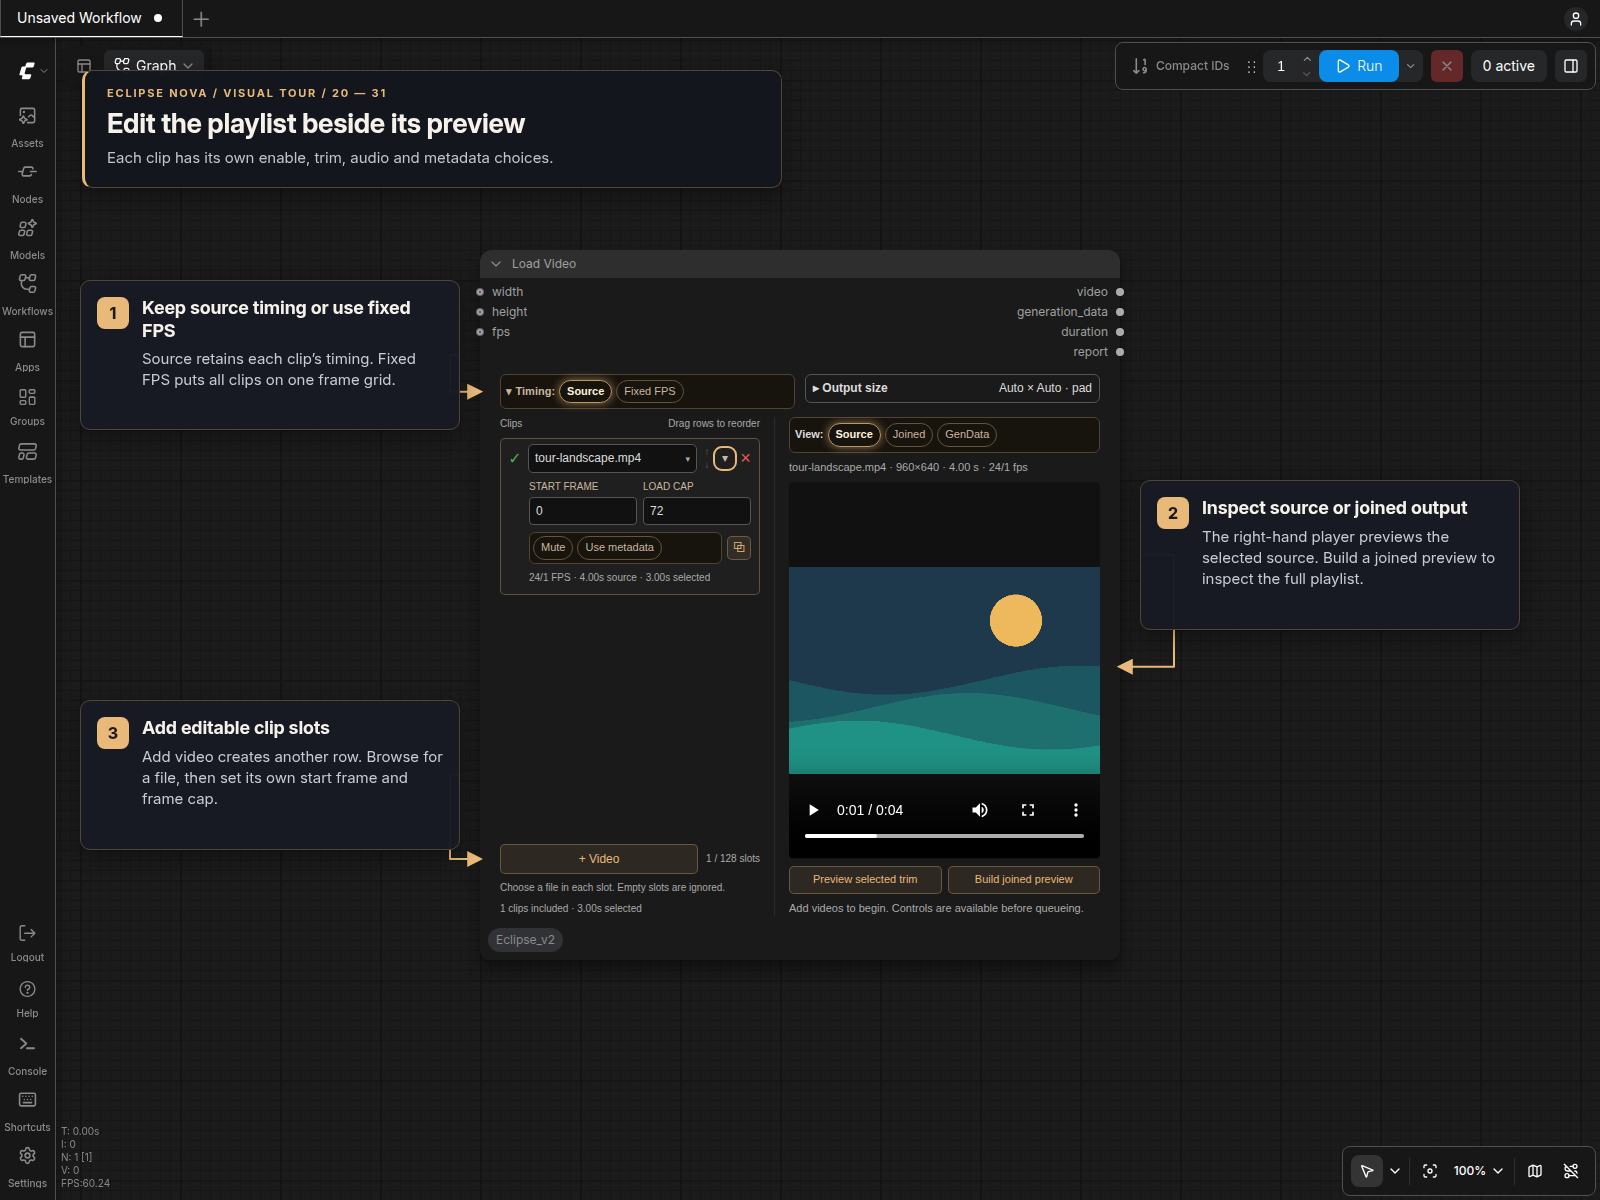
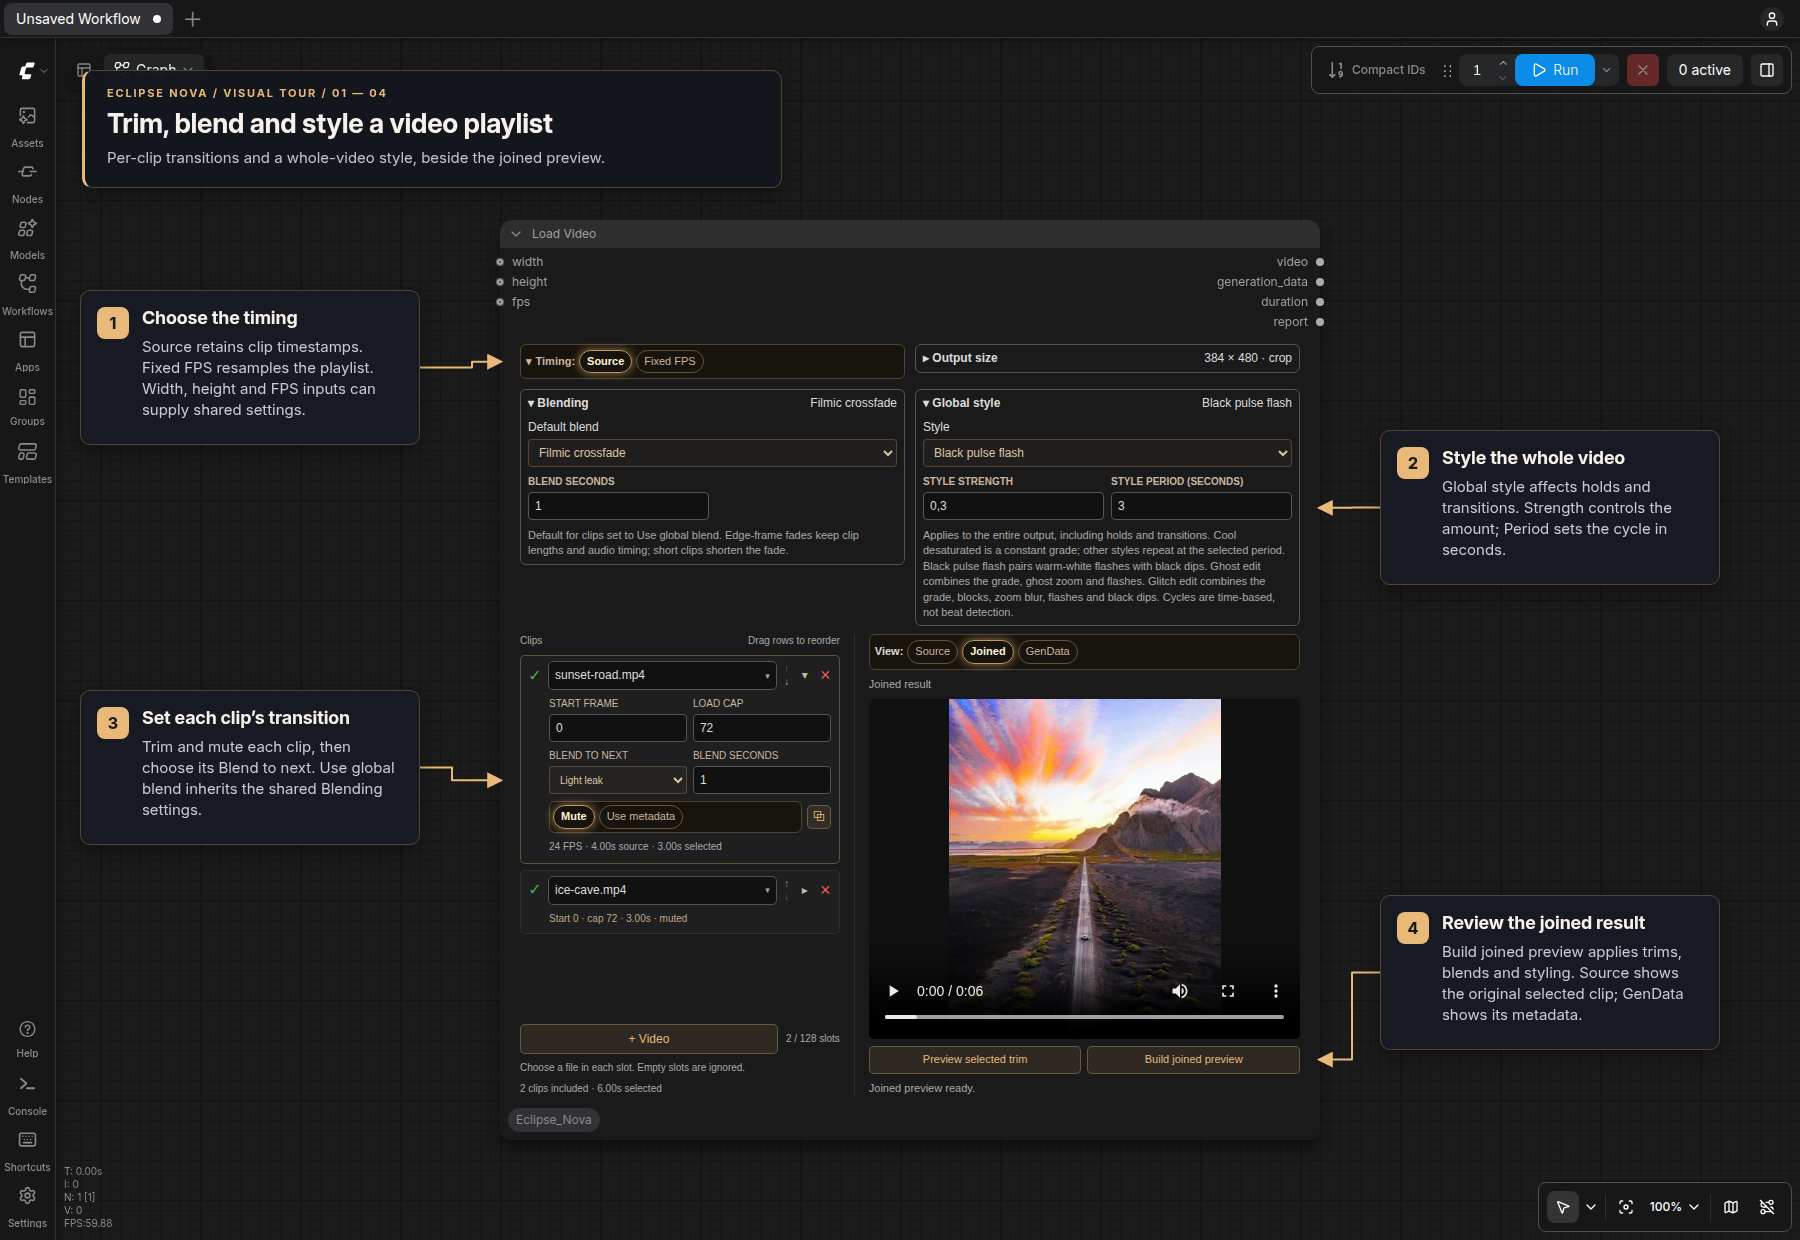
- Docs   - Refresh the Load Video visual tour with per-clip blends, shared blending, Global style and a rendered joined preview. Remove the outdated hard-joins-only limitation.   - Add an annotated Load Image Timeline tour covering image slots, crop previews, per-image transitions, selected generati

diff --git a/Readme/Image_Timeline_Video.md b/Readme/Image_Timeline_Video.md
@@ -39,16 +39,32 @@ The **Global style** section changes the complete sequence, including a single h
 
 ## Load Image Timeline
 
+### Arrange, crop and blend
+
+![Load Image Timeline visual tour: add and reorder images, refresh dimensions, crop each image and choose its outgoing blend](assets/nova-load-image-timeline.png)
+
 Use **+ Image**, then browse the input/output image folders or upload a file. Drop one or several image files into the left-hand list to append new slots in drop order. Dropping onto the preview replaces the selected image with the first file and adds any remaining files as new slots. Drag the handles or use the arrows to reorder. The mouse wheel scrolls the file list while hovered, including at its edges, without zooming the canvas. Disable slots to keep them for later; removing a slot does not delete its file. Empty slots are ignored. Each slot loads one still frame, including animated image files.
 
 New image slots default to **Crop**, centered horizontally and vertically. Expand **Image settings** to choose Pad, Crop, Stretch or the renderer's fit setting. Crop has independent left/center/right and top/center/bottom positions. The preview uses the local canvas; connected width/height values take priority when executed. With inherited fit, the preview shows Pad until the renderer applies its choice. The slot's **Blend to next** and **Blend seconds** apply to the next enabled image. The last image's outgoing blend is unused. Choose **Use timeline setting** to inherit the renderer's blend and duration.
 
 The shared **Update previews** button refreshes the canvas for all image crops while keeping the selected image. With neither size input connected, it updates locally without queueing a workflow. When width or height is connected, one partial run resolves those inputs and loads the enabled images; downstream rendering stays idle. The size label shows whether each dimension comes from an input or the local controls. A connected input returning None falls back to its local value. Changing local dimensions or crop positions immediately updates the preview using the last retrieved input values. Click Update previews again after changing upstream dimensions. Editing crop controls or dropping files does not automatically queue the workflow. The loader is a preview output node, so it also participates in normal queues even without a downstream connection.
 
-The selected slot appears on the right. **Image metadata** reads its generation settings on demand. Enable **Use metadata** for one image and select the sampler settings, positive prompt, negative prompt and seed groups to include in the output PIPE. Choosing a different metadata source disables the previous source. Metadata is not automatically changed at each transition, and image files are never modified. Exact 64-bit seeds are preserved.
+### Select generation metadata
+
+![Load Image Timeline visual tour: choose one metadata source and select sampler, prompt and seed groups for the output PIPE](assets/nova-load-image-timeline-metadata.png)
+
+The selected slot appears on the right. **Image metadata** reads its generation settings on demand. Enable **Use metadata** for one image and select the sampler settings, positive prompt, negative prompt and seed groups to include in the output PIPE. Choosing a different metadata source disables the previous source. Metadata is not automatically changed at each transition, and image files are never modified. Exact 64-bit seeds are preserved. The screenshot uses sample metadata to demonstrate the group selection.
+
+### Keep per-image settings in the PIPE
+
+![Connected Load Image Timeline, IO Image Timeline and Image Timeline Video nodes with guidance on preserving image settings and adding audio](assets/nova-load-image-timeline-pipe.png)
+
+Connect **Load Image Timeline → pipe → IO Image Timeline → pipe → Image Timeline Video**. Add the soundtrack to the IO's **audio** input, leaving its **images** input disconnected. The renderer controls when images change; its blend settings apply only to slots set to **Use timeline setting**. Connect another IO after the renderer to extract the completed **video** for captions or saving.
 
 The loader's canvas settings determine a common output size without resizing the source images. Cropping and blending happen during rendering. Its additional **images** output contains the original ordered images; use its **pipe** output to retain per-image options. Passing the same ordered images into an IO again preserves their options. Replacing, reordering or processing the images clears inherited per-image crop/blend settings to avoid applying them to the wrong images.
 
-The report also appears in a collapsible section. The JSON plan includes image intervals and actual blend windows. Frames cover the audio through its end; the last frame can extend the video by less than one frame, with silence beyond the excerpt. The temporary video uses lossless RGB8 and retains the original soundtrack. Fitted images and blends stream to disk, retaining only the active image pair instead of a full decoded video batch. The cached VIDEO owns the temporary file.
+## Rendering and outputs
+
+The renderer's report also appears in a collapsible section. The JSON plan includes image intervals and actual blend windows. Frames cover the audio through its end; the last frame can extend the video by less than one frame, with silence beyond the excerpt. The temporary video uses lossless RGB8 and retains the original soundtrack. Fitted images and blends stream to disk, retaining only the active image pair instead of a full decoded video batch. The cached VIDEO owns the temporary file.
 
 For captions, unpack **video** with IO Image Timeline and connect it to **IO Lyric Captions → background**, together with the original audio and reviewed lyrics/timing. Use the same FPS and canvas size on both nodes. For an export without captions, connect the unpacked **video → Save Video** directly. Save Video performs the final delivery encode.

diff --git a/Readme/Visual_Tour.md b/Readme/Visual_Tour.md
@@ -1,9 +1,11 @@
 # Eclipse Nova visual tour
 
-These screenshots show the current **1.0.0** panels in a running ComfyUI 0.38.0
-with frontend 1.53.10. Most use **Amber**, the yellow-gold theme used throughout
-this tour. **Neutral is the default.** The media examples use small sample
-files; model-dependent controls are shown without loading models.
+These screenshots capture real panels in running ComfyUI. The Load Video and
+Load Image Timeline scenes use ComfyUI **0.42.1** with frontend **1.55.18**;
+earlier scenes were captured with 0.38.0 and frontend 1.53.10. Most use **Amber**,
+the yellow-gold theme used throughout this tour. **Neutral is the default.**
+The media examples use small sample files; model-dependent controls are shown
+without loading models.
 
 Open an image to inspect it at full size. Each section links to the guide with
 settings, inputs and workflow examples.
@@ -12,7 +14,7 @@ settings, inputs and workflow examples.
 
 The same panel works in classic canvas and Nodes 2.0. Collapsible bars show the
 active choices, section pins keep selected groups open, and the node size bounds
-resizable text and previews. [Node designs](Node_Design.md) covers all five
+resizable text and previews. [Node designs](Node_Design.md) covers the
 bundled palettes and custom JSON themes.
 
 ![Jade String Multiline panel in classic canvas](assets/nova-design-jade.png)
@@ -94,10 +96,22 @@ adds encoding, trim and loop controls for video output.
 ## Work with audio and video
 
 [Load Video](Load_Video.md) places editable clip slots beside a player. Each clip
-has its own start, frame cap, audio and metadata choices. Source timing retains
-original timestamps; Fixed FPS resamples onto one frame grid.
+has its own trim, audio, metadata and transition choices. Shared Blending supplies
+defaults; Global style affects the complete output. Source timing retains original
+timestamps; Fixed FPS resamples onto one frame grid. Build the joined preview to
+review trims and effects together.
 
-![Load Video with a selected clip, trim settings and source preview](assets/nova-load-video.png)
+![Load Video with per-clip blends, Global style and a joined preview](assets/nova-load-video.png)
+
+[Load Image Timeline](Image_Timeline_Video.md#load-image-timeline) adds images
+directly as reorderable slots. Set each crop and outgoing blend, refresh the shared
+canvas, and optionally select one image's generation metadata. Its PIPE retains
+these choices through IO Image Timeline into the video renderer.
+
+![Load Image Timeline with ordered image slots, crop controls and Update previews](assets/nova-load-image-timeline.png)
+
+The [full image timeline tour](Image_Timeline_Video.md#load-image-timeline) also
+shows metadata selection and the connected loader → IO → renderer flow.
 
 [Load Audio](Load_Audio.md) auditions files or incoming audio and accepts start
 and duration overrides. [Lyric Captions](Lyric_Captions.md) keeps full-song

diff --git a/Readme/Load_Video.md b/Readme/Load_Video.md
@@ -87,7 +87,7 @@ refresh the preview. The adjacent **×** stops the current execution immediately
 
 ## Visual tour
 
-![Load Video with an editable clip slot on the left and its source preview on the right](assets/nova-load-video.png)
+![Load Video with editable clip trims and blends, Global style controls and the joined preview](assets/nova-load-video.png)
 
 ### Direct video upscaling with Eclipse
 
@@ -263,6 +263,8 @@ pixels are not bit-identical: VIDEO is encoded, and a saver can encode it again.
 Use the streaming Upscale Video route for longer videos. Joined previews also
 render at the configured size.
 
-The initial scope is hard joins of up to 128 videos. It does not include
-transitions, motion interpolation, speed changes, multiple soundtrack mixing,
-remote URL downloads, or image slideshows. Original source files are unchanged.
+Playlists support up to 128 videos, with optional transitions and global styles.
+Motion interpolation, speed changes, multiple soundtrack mixing and remote URL
+downloads are not included. For still-image sequences, use
+[Load Image Timeline and Image Timeline Video](Image_Timeline_Video.md#load-image-timeline).
+Original source files are unchanged.

diff --git a/CHANGELOG.md b/CHANGELOG.md
@@ -2,6 +2,23 @@
 
 ## 2026-10-23
 
+### Version: 1.0.12
+
+- **Docs**
+  - Refresh the Load Video visual tour with per-clip blends, shared blending, Global style and a rendered joined preview. Remove the outdated hard-joins-only limitation.
+  - Add an annotated Load Image Timeline tour covering image slots, crop previews, per-image transitions, selected generation metadata and the connected PIPE flow into IO Image Timeline and its renderer. Link the scenes from the main visual tour and identify their capture versions.
+- **Changed files**
+  - Readme/Visual_Tour.md
+  - Readme/Load_Video.md
+  - Readme/Image_Timeline_Video.md
+  - Readme/assets/nova-load-video.png
+  - Readme/assets/nova-load-image-timeline.png
+  - Readme/assets/nova-load-image-timeline-metadata.png
+  - Readme/assets/nova-load-image-timeline-pipe.png
+  - pyproject.toml
+
+## 2026-10-23
+
 ### Version: 1.0.11
 
 - **Feat (New)**
